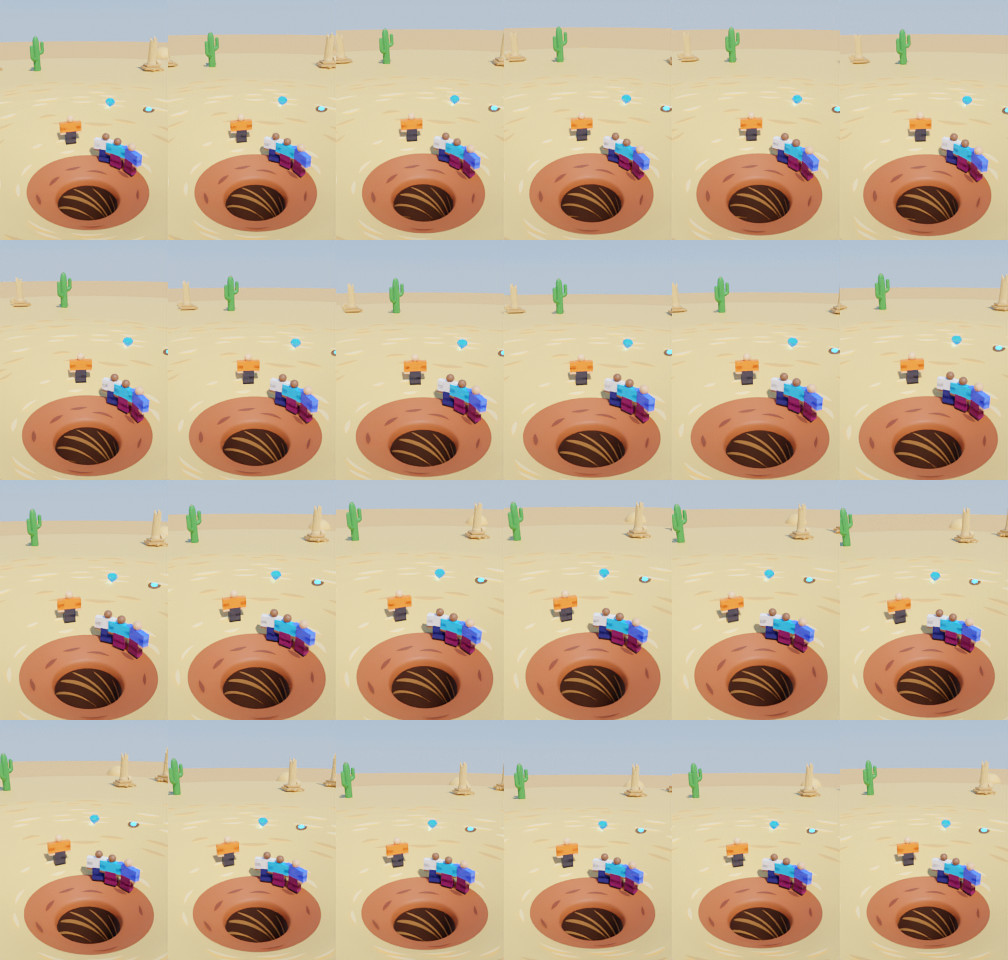
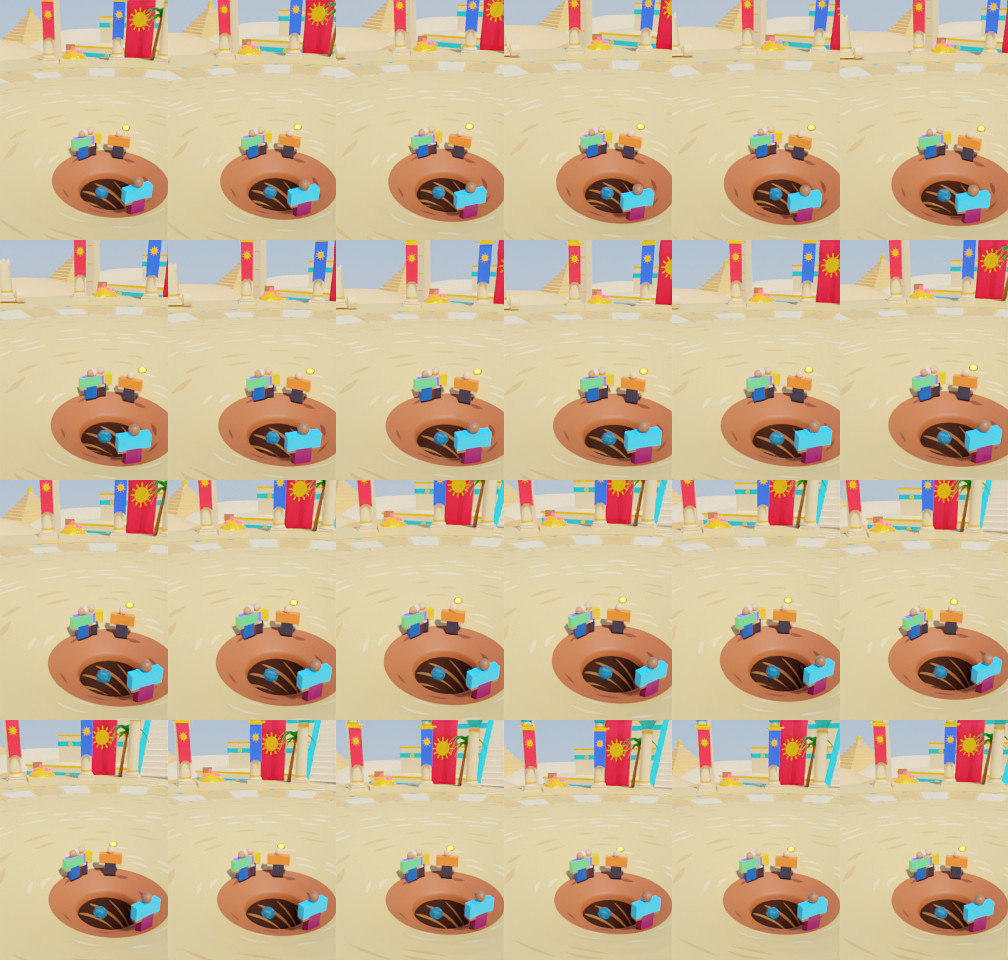
Portal previews show the new Skate Escape and Sinking Sands arenas
Claude-Session: https://claude.ai/code/session_0118DxSUkAz3MXNwL4Bb3UDh

diff --git a/tools/preview/make_preview.py b/tools/preview/make_preview.py
@@ -89,8 +89,8 @@ CAMERAS: dict[str, dict] = {
     "BumperBallers": {"look_at": "BoingRing", "yaw": 120, "pitch": 22, "distance": 34, "shift": [0, 6, 0]},
     # The archers' tower from the field, a runner and a target board in front.
     "ArrowAmbush": {"yaw": 15, "pitch": 22, "distance": 40, "shift": [0, -3, 2], "raise": 12},
-    # A skater mid-ollie, the crates and the leaders ahead, lava and spires around.
-    "SkateEscape": {"subject": "highest", "yaw": 50, "pitch": 10, "distance": 20, "sway": 8},
+    # Behind the pack, down the bridge: crates ahead, the viaduct towers and the canyon either side.
+    "SkateEscape": {"yaw": 12, "pitch": 15, "distance": 30, "shift": [0, 2, 0], "raise": 5, "sway": 8},
     # Divers at the rim of the swirling sinkhole, treasure on the sand around it.
     "SinkingSands": {"yaw": 30, "pitch": 30, "distance": 36, "shift": [0, 2, 6]},
 }
